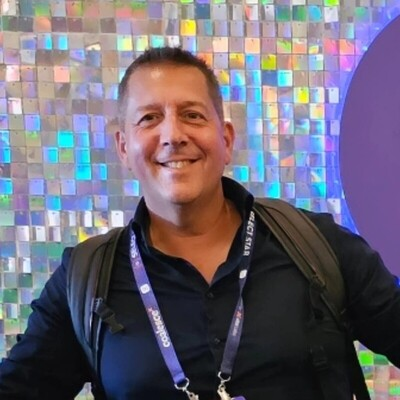
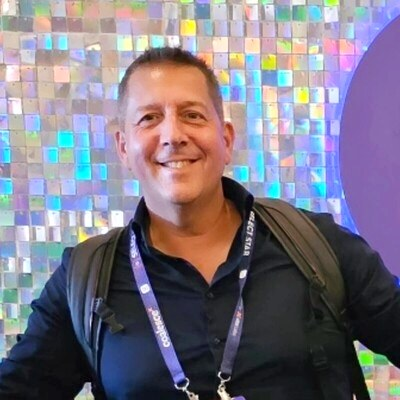
fix: responsive nav (hamburger on mobile) + brighten dim photos
- Nav no longer breaks: no-wrap CTA + tighter spacing on desktop; below
  980px collapses to a CSS-only hamburger dropdown (checkbox+label added
  to all 10 page headers). Fixes the wrapped 'Start a conversation' and
  the crammed mobile menu.
- Brighten jaco-portrait.jpg + jaco-alec-sharp.jpg (mild gamma lift);
  originals kept as *-original.jpg.

diff --git a/css/style.css b/css/style.css
@@ -39,18 +39,24 @@ header.site {
   backdrop-filter: saturate(180%) blur(10px);
   border-bottom: 1px solid var(--line);
 }
-header.site .wrap { display: flex; align-items: center; justify-content: space-between; height: 72px; }
-.brand { font-weight: 700; letter-spacing: .2px; color: var(--ink); text-decoration: none; font-size: 19px; }
+header.site .wrap { display: flex; align-items: center; justify-content: space-between; height: 72px; gap: 16px; }
+.brand { font-weight: 700; letter-spacing: .2px; color: var(--ink); text-decoration: none; font-size: 19px; flex-shrink: 0; }
 .brand span { color: var(--accent); }
+nav.main { display: flex; align-items: center; }
 nav.main a {
-  color: var(--ink-soft); text-decoration: none; margin-left: 28px; font-size: 16px; font-weight: 500;
+  color: var(--ink-soft); text-decoration: none; margin-left: 22px; font-size: 15.5px; font-weight: 500; white-space: nowrap;
 }
 nav.main a:hover, nav.main a.active { color: var(--ink); }
 .nav-cta {
-  margin-left: 28px; padding: 9px 18px; border-radius: 999px;
-  background: var(--accent); color: #fff !important; font-weight: 600;
+  margin-left: 22px; padding: 9px 18px; border-radius: 999px;
+  background: var(--accent); color: #fff !important; font-weight: 600; white-space: nowrap;
 }
 .nav-cta:hover { background: var(--accent-dk); }
+
+/* hamburger toggle (CSS-only, hidden on desktop) */
+.nav-toggle { display: none; }
+.nav-burger { display: none; cursor: pointer; flex-direction: column; gap: 5px; padding: 8px; flex-shrink: 0; }
+.nav-burger span { display: block; width: 24px; height: 2px; background: var(--ink); border-radius: 2px; }
 
 /* ---- Buttons ---- */
 .btn {
@@ -150,9 +156,24 @@ footer.site a { color: var(--ink-soft); text-decoration: none; margin-left: 20px
 footer.site a:hover { color: var(--accent); }
 
 /* ---- Responsive ---- */
+
+/* Nav collapses to hamburger below 980px (8 links + CTA need the room) */
+@media (max-width: 980px) {
+  .nav-burger { display: flex; }
+  nav.main {
+    position: absolute; top: 72px; left: 0; right: 0;
+    flex-direction: column; align-items: stretch;
+    background: var(--surface); border-bottom: 1px solid var(--line);
+    box-shadow: var(--shadow);
+    max-height: 0; overflow: hidden; transition: max-height .25s ease;
+  }
+  .nav-toggle:checked ~ nav.main { max-height: 80vh; }
+  nav.main a { margin: 0; padding: 15px 24px; font-size: 16px; border-top: 1px solid var(--line); }
+  nav.main a:first-child { border-top: none; }
+  .nav-cta { margin: 12px 24px 18px; text-align: center; }
+}
+
 @media (max-width: 860px) {
   .proof, .grid-2, .grid-3, .fit, .svc { grid-template-columns: 1fr; }
-  nav.main a { margin-left: 16px; font-size: 15px; }
-  nav.main .label-hide { display: none; }
   section { padding: 60px 0; }
 }

diff --git a/about.html b/about.html
@@ -27,6 +27,8 @@
   <header class="site">
     <div class="wrap">
       <a class="brand" href="index.html">Jaco van der&nbsp;Laan</a>
+      <input type="checkbox" id="navtoggle" class="nav-toggle" aria-hidden="true">
+      <label for="navtoggle" class="nav-burger" aria-label="Menu"><span></span><span></span><span></span></label>
       <nav class="main">
         <a href="approach.html">Approach</a>
         <a href="teams.html">For teams</a>

diff --git a/approach.html b/approach.html
@@ -13,6 +13,8 @@
   <header class="site">
     <div class="wrap">
       <a class="brand" href="index.html">Jaco van der&nbsp;Laan</a>
+      <input type="checkbox" id="navtoggle" class="nav-toggle" aria-hidden="true">
+      <label for="navtoggle" class="nav-burger" aria-label="Menu"><span></span><span></span><span></span></label>
       <nav class="main">
         <a href="approach.html" class="active">Approach</a>
         <a href="teams.html">For teams</a>

diff --git a/contact.html b/contact.html
@@ -27,6 +27,8 @@
   <header class="site">
     <div class="wrap">
       <a class="brand" href="index.html">Jaco van der&nbsp;Laan</a>
+      <input type="checkbox" id="navtoggle" class="nav-toggle" aria-hidden="true">
+      <label for="navtoggle" class="nav-burger" aria-label="Menu"><span></span><span></span><span></span></label>
       <nav class="main">
         <a href="approach.html">Approach</a>
         <a href="teams.html">For teams</a>

diff --git a/ideas.html b/ideas.html
@@ -25,6 +25,8 @@
   <header class="site">
     <div class="wrap">
       <a class="brand" href="index.html">Jaco van der&nbsp;Laan</a>
+      <input type="checkbox" id="navtoggle" class="nav-toggle" aria-hidden="true">
+      <label for="navtoggle" class="nav-burger" aria-label="Menu"><span></span><span></span><span></span></label>
       <nav class="main">
         <a href="approach.html">Approach</a>
         <a href="teams.html">For teams</a>

diff --git a/index.html b/index.html
@@ -20,6 +20,8 @@
   <header class="site">
     <div class="wrap">
       <a class="brand" href="index.html">Jaco van der&nbsp;Laan</a>
+      <input type="checkbox" id="navtoggle" class="nav-toggle" aria-hidden="true">
+      <label for="navtoggle" class="nav-burger" aria-label="Menu"><span></span><span></span><span></span></label>
       <nav class="main">
         <a href="approach.html">Approach</a>
         <a href="teams.html">For teams</a>

diff --git a/references.html b/references.html
@@ -24,6 +24,8 @@
   <header class="site">
     <div class="wrap">
       <a class="brand" href="index.html">Jaco van der&nbsp;Laan</a>
+      <input type="checkbox" id="navtoggle" class="nav-toggle" aria-hidden="true">
+      <label for="navtoggle" class="nav-burger" aria-label="Menu"><span></span><span></span><span></span></label>
       <nav class="main">
         <a href="approach.html">Approach</a>
         <a href="teams.html">For teams</a>

diff --git a/services.html b/services.html
@@ -13,6 +13,8 @@
   <header class="site">
     <div class="wrap">
       <a class="brand" href="index.html">Jaco van der&nbsp;Laan</a>
+      <input type="checkbox" id="navtoggle" class="nav-toggle" aria-hidden="true">
+      <label for="navtoggle" class="nav-burger" aria-label="Menu"><span></span><span></span><span></span></label>
       <nav class="main">
         <a href="approach.html">Approach</a>
         <a href="teams.html">For teams</a>

diff --git a/teams.html b/teams.html
@@ -13,6 +13,8 @@
   <header class="site">
     <div class="wrap">
       <a class="brand" href="index.html">Jaco van der&nbsp;Laan</a>
+      <input type="checkbox" id="navtoggle" class="nav-toggle" aria-hidden="true">
+      <label for="navtoggle" class="nav-burger" aria-label="Menu"><span></span><span></span><span></span></label>
       <nav class="main">
         <a href="approach.html">Approach</a>
         <a href="teams.html" class="active">For teams</a>

diff --git a/work.html b/work.html
@@ -13,6 +13,8 @@
   <header class="site">
     <div class="wrap">
       <a class="brand" href="index.html">Jaco van der&nbsp;Laan</a>
+      <input type="checkbox" id="navtoggle" class="nav-toggle" aria-hidden="true">
+      <label for="navtoggle" class="nav-burger" aria-label="Menu"><span></span><span></span><span></span></label>
       <nav class="main">
         <a href="approach.html">Approach</a>
         <a href="teams.html">For teams</a>

diff --git a/writing.html b/writing.html
@@ -13,6 +13,8 @@
   <header class="site">
     <div class="wrap">
       <a class="brand" href="index.html">Jaco van der&nbsp;Laan</a>
+      <input type="checkbox" id="navtoggle" class="nav-toggle" aria-hidden="true">
+      <label for="navtoggle" class="nav-burger" aria-label="Menu"><span></span><span></span><span></span></label>
       <nav class="main">
         <a href="approach.html">Approach</a>
         <a href="teams.html">For teams</a>